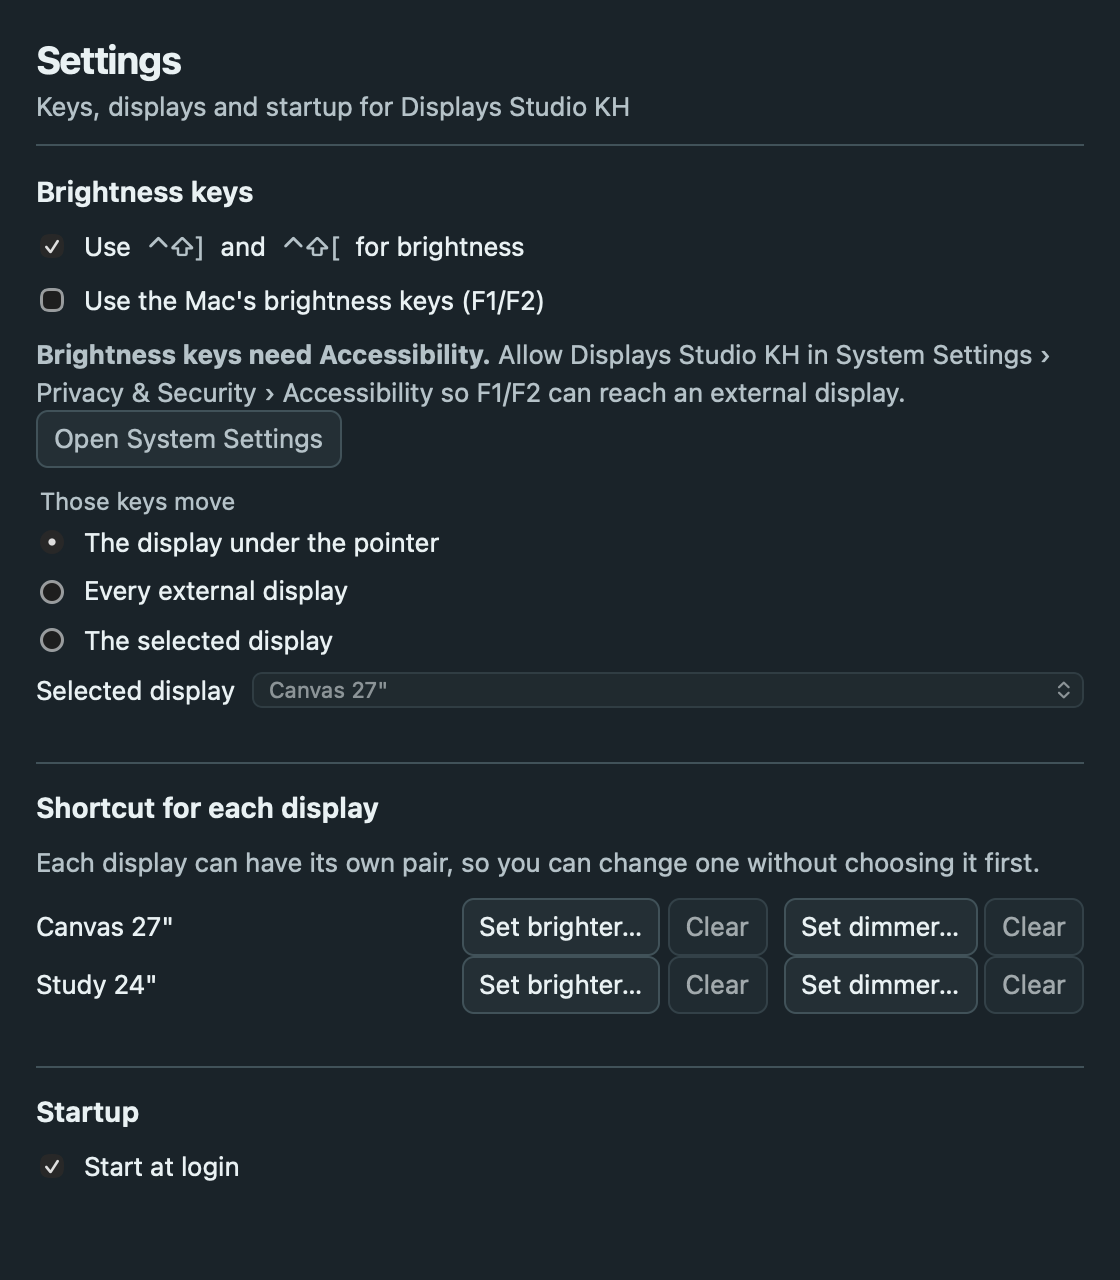
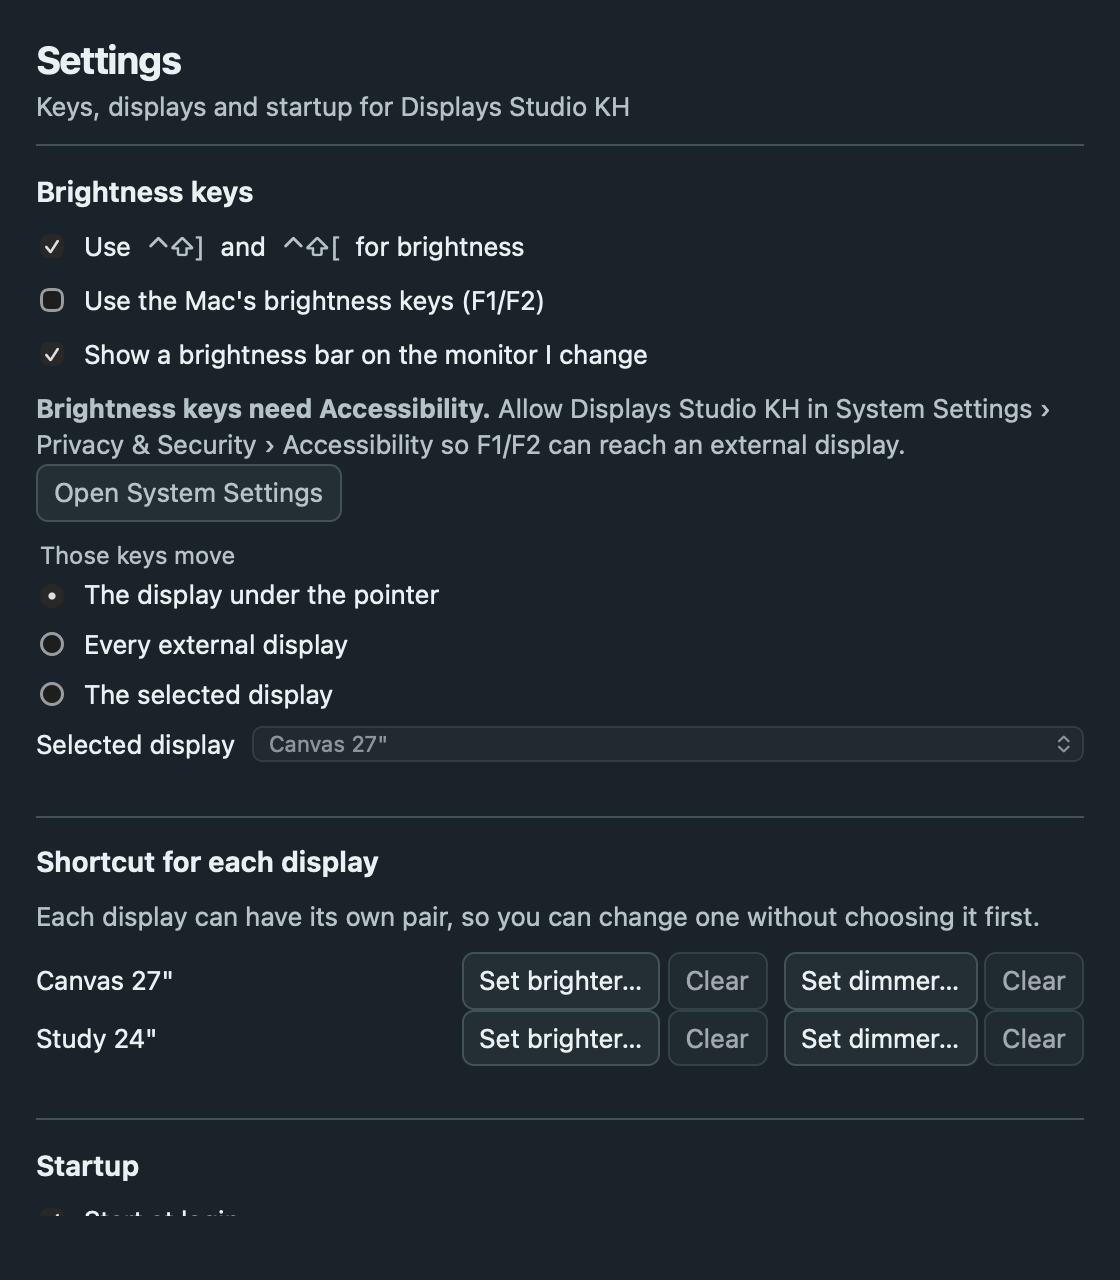
Refresh screenshots for the brightness-bar switch

Changed region(s): [[0.0312, 0.25, 0.9688, 0.875], [0.0312, 0.9062, 0.2188, 0.9375], [0.9375, 0.5312, 0.9688, 0.5938]]

diff --git a/docs/receipts/0.1.15/RECEIPT.md b/docs/receipts/0.1.15/RECEIPT.md
@@ -1,0 +1,33 @@
+# Receipt — Displays Studio KH 0.1.15
+
+Adds the brightness HUD: a small translucent panel, bottom-centre on the display being adjusted, with a bar and the new percentage, visible for 900 ms and then a 200 ms fade. It is a native non-activating `NSPanel` that never becomes key or main, ignores the mouse, and never appears for the built-in screen. Settings gains a switch for it, on by default.
+
+```
+app: displays-studio-kh
+version: 0.1.15
+commit: PENDING
+artifact: dist/Displays Studio KH-0.1.15.dmg
+sha256: PENDING
+bytes: PENDING
+gate config: $HOME/Developer/_orchestra/tools/gate-configs/displays-0.1.15.sh
+gate exit: PENDING
+hud selftest: PENDING
+feed readback: PENDING
+```
+
+## What it does
+
+- A press that changes an external display's brightness shows a panel on that display: bottom-centre, 172×44, a bar plus the new percentage, HUD material, native AppKit — no webview, no extra dependency.
+- Visible for 900 ms, then a 200 ms fade and hidden. One short-lived thread per press; nothing runs while no key is pressed. A newer press cancels an older fade, so a held key never hides a fresh value.
+- The panel is a `NonactivatingPanel` subclass whose `canBecomeKeyWindow` and `canBecomeMainWindow` are both false, it ignores mouse events, and it sits at `NSStatusWindowLevel` on every Space.
+- Never shown for the built-in display (macOS already draws its own brightness HUD there), and only for a display the step actually changed.
+- Settings › Brightness keys gains "Show a brightness bar on the monitor I change", on by default.
+
+## Measured behaviour (offscreen self-test, `DISPLAYS_STUDIO_HUD_SELFTEST=1`)
+
+PENDING — filled from the gate's `hud-selftest` step.
+
+## Not proven
+
+- **Focus, on an unlocked Mac with a real app in front.** The self-test ran while the owner's session was locked, so it recorded focus as UNMEASURED rather than claiming a result. On a locked session the frontmost app did not change when the panel appeared.
+- The owner has not yet seen the HUD on his own screen.
